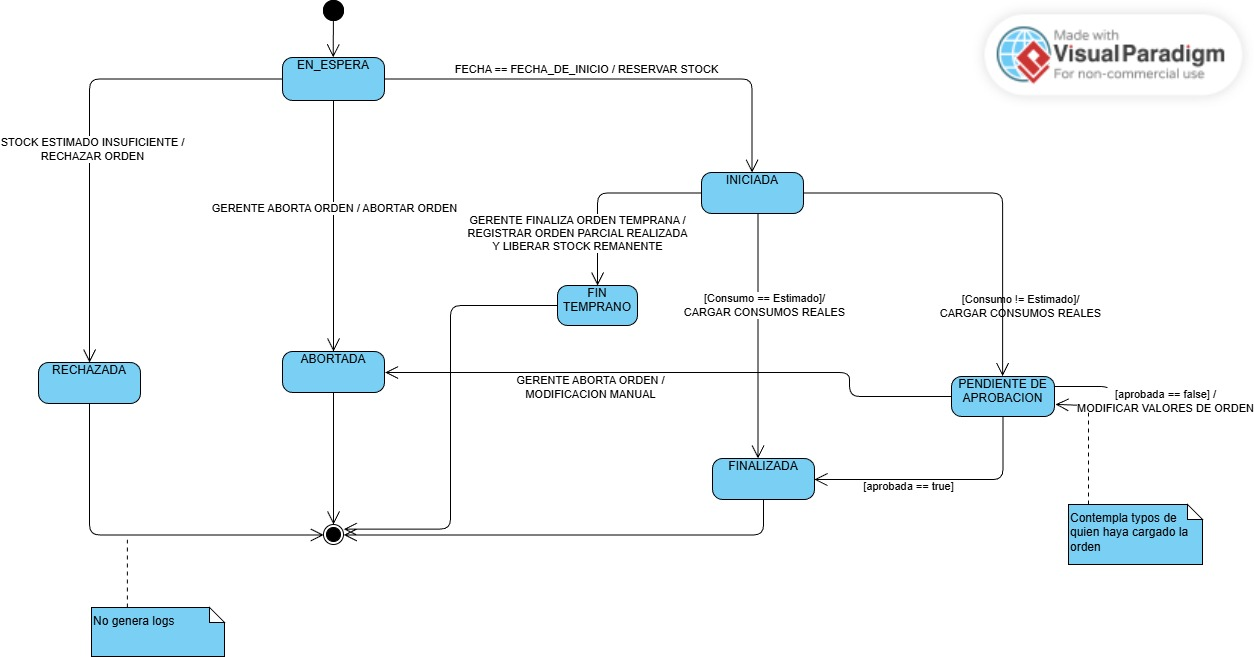
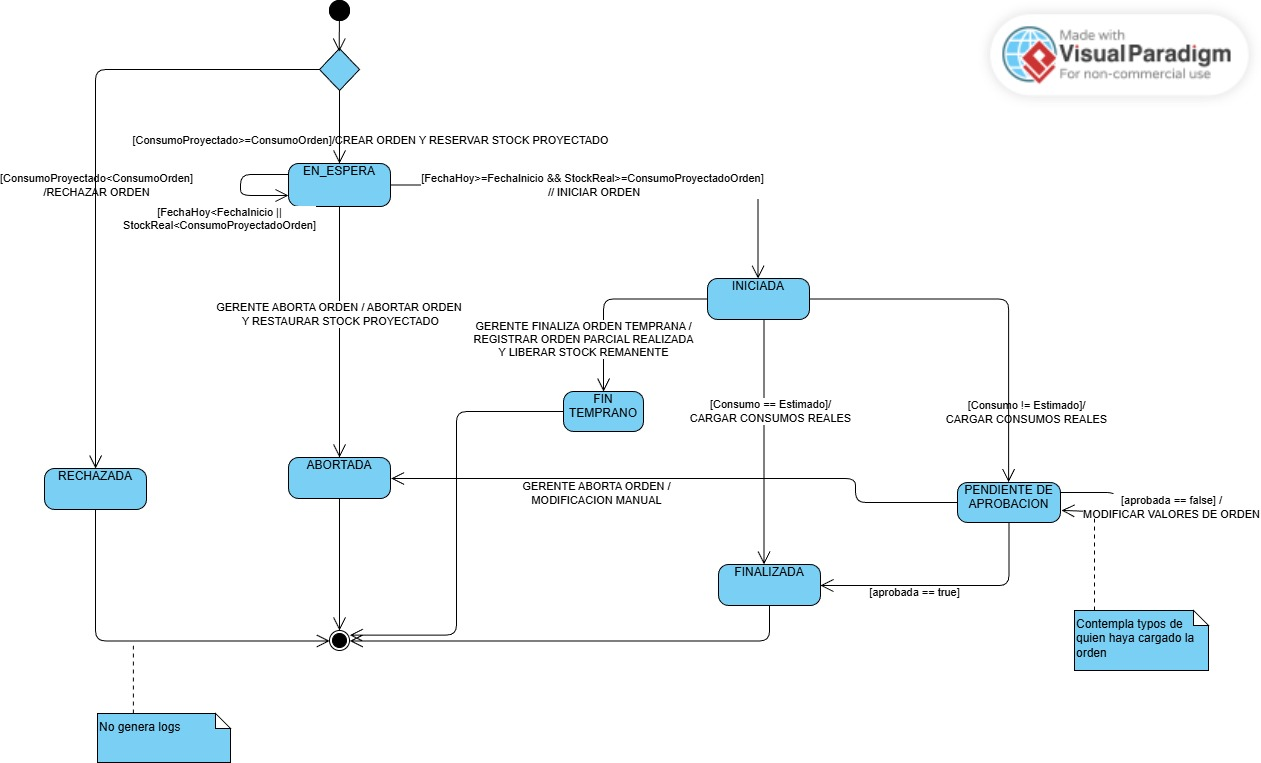
Feat(chore): Agrego diagrama de clases y modifico diagrama de estados

diff --git a/docs/CHANGELOG.md b/docs/CHANGELOG.md
@@ -2,7 +2,16 @@
 
 Los diagramas que queden deprecados serán movidos a la carpeta `/Historial_Diagramas` y renombrados con su fecha original para mantener la trazabilidad del proceso de diseño.
 
+
 ---
+
+### [20/03/2026] - Arquitectura del Sistema y Diagrama de Clases Integral
+* **Se agregaron:** * **Diagrama de Clases UML completo:** Mapeo integral del dominio del sistema estructurado bajo una arquitectura de tres capas estrictas (Controladores REST, Gestores de Negocio y Repositorios de Datos) para asegurar alta cohesión y bajo acoplamiento.
+* **Lógica actualizada:** * **Patrones de Diseño Implementados:** Integración estructural del patrón **Composite** para la jerarquía de productos abstractos (`MateriaPrima` y `ProductoElaborado`), y del patrón **State** para la mutación segura de las Órdenes de Trabajo. Adicionalmente, se modeló la segregación de dominios (compras vs. producción) y la orquestación automática de eventos temporales mediante `<<CronJob>>`.
+
+### [19/03/2026] - Refactor de Máquina de Estados y Lógica de Producción
+* **Lógica actualizada:** * **Diagrama de Estados (Orden de Trabajo):** Se rediseñó el ciclo de vida incorporando la validación cruzada estricta entre **Stock Proyectado** (para la fase de planificación) y **Stock Real** (para la habilitación de ejecución).
+* **Se agregaron (Nuevos Estados y Flujos):** * Transiciones condicionales y estados de control como `PENDIENTE DE APROBACION` para auditar desvíos y mermas entre el consumo estimado vs. real y `FIN TEMPRANO` para liberación de stock remanente. 
 
 ### [16/03/2026] - Gestión de Lotes, Trazabilidad y Refactor de Documentación
 * **Se agregaron (Casos de Uso):** * Nuevos flujos al Glosario y al Diagrama UML para el ciclo de vida del inventario: `CU-30 Consultar Trazabilidad de Lote`, `CU-31 Registrar Ingreso de Lote` y `CU-32 Ajustar/Dar de Baja Lote`.

diff --git a/README.md b/README.md
@@ -22,4 +22,5 @@ En la carpeta `/docs` se puede encontrar la documentación técnica fundacional:
 2. **Modelo de Dominio (UML):** Estructura de entidades y relaciones.
 3. **Máquina de Estados:** Diagrama de transición para el ciclo de vida de las órdenes de trabajo.
 4. **Análisis de Casos de Uso:** Glosario, diagramas y [especificaciones detalladas de los procesos críticos](https://github.com/Vulgurr/Proyecto_Stock_Fullstack/tree/main/docs/Diagramas_Actuales/GLOSARIO_CASOS_DE_USO.md) (Planificación de órdenes, gestión de estados y carga de consumos reales).
+5. **Diagrama de Clases:** Modelado integral del núcleo del ERP bajo una arquitectura estricta de 3 capas (Controlador-Servicio-Repositorio). Implementa separación de dominios (Compras vs. Producción) y patrones de diseño avanzados (Composite y State) para garantizar alta cohesión, bajo acoplamiento y trazabilidad total del inventario.
 *(El historial de iteraciones de diseño se encuentra documentado en el archivo `CHANGELOG_ARQUITECTURA.md`, dentro de la carpeta `/docs`)*
